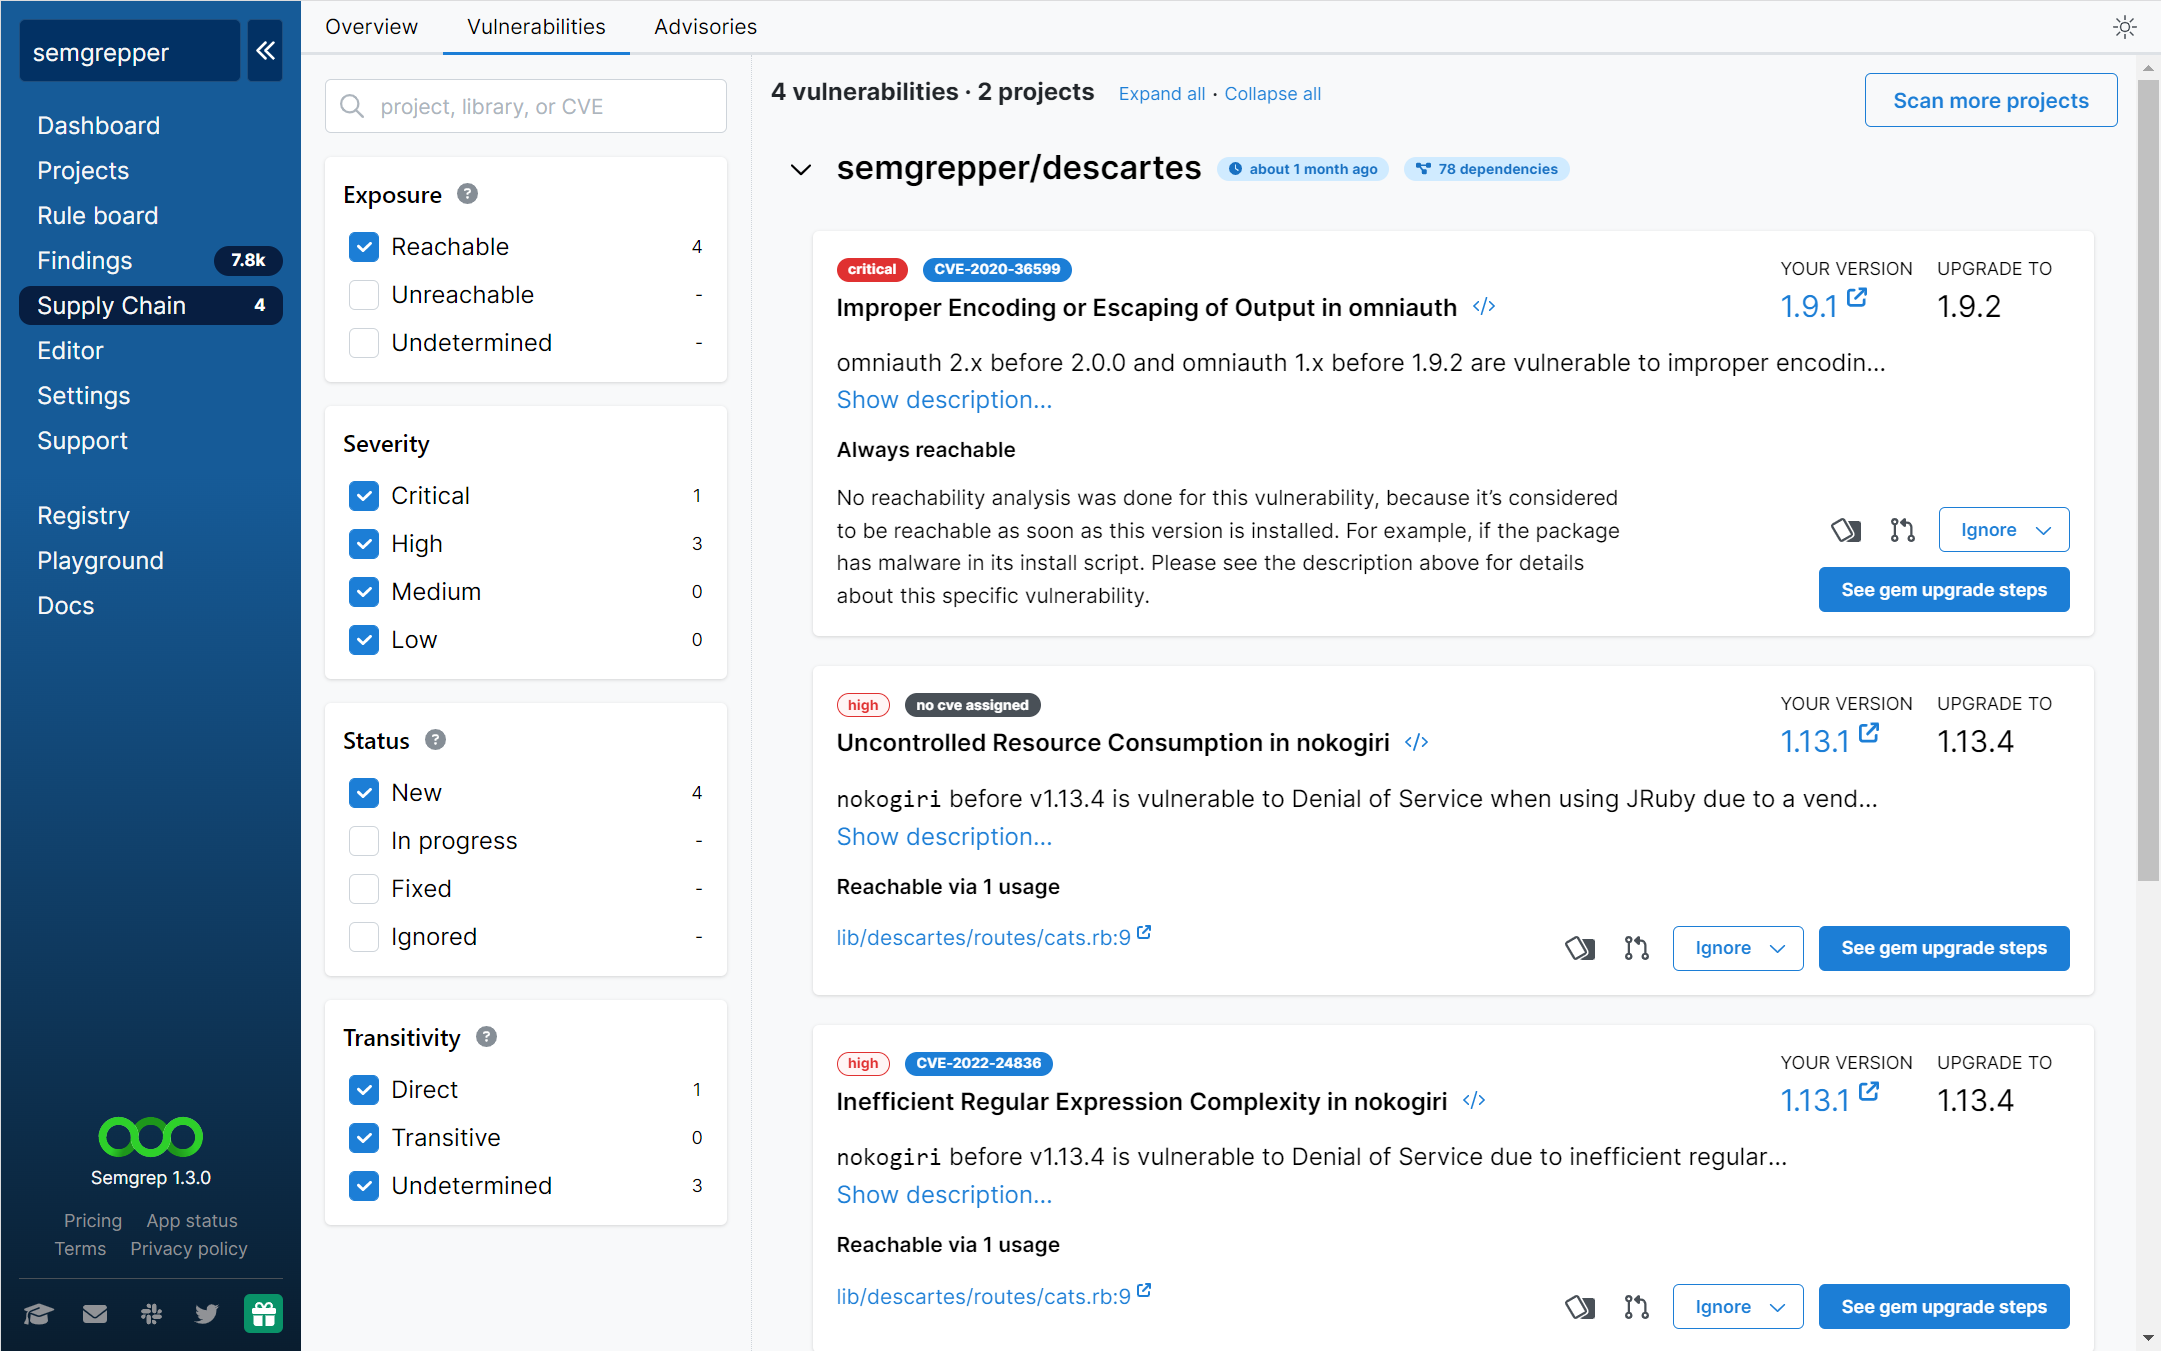
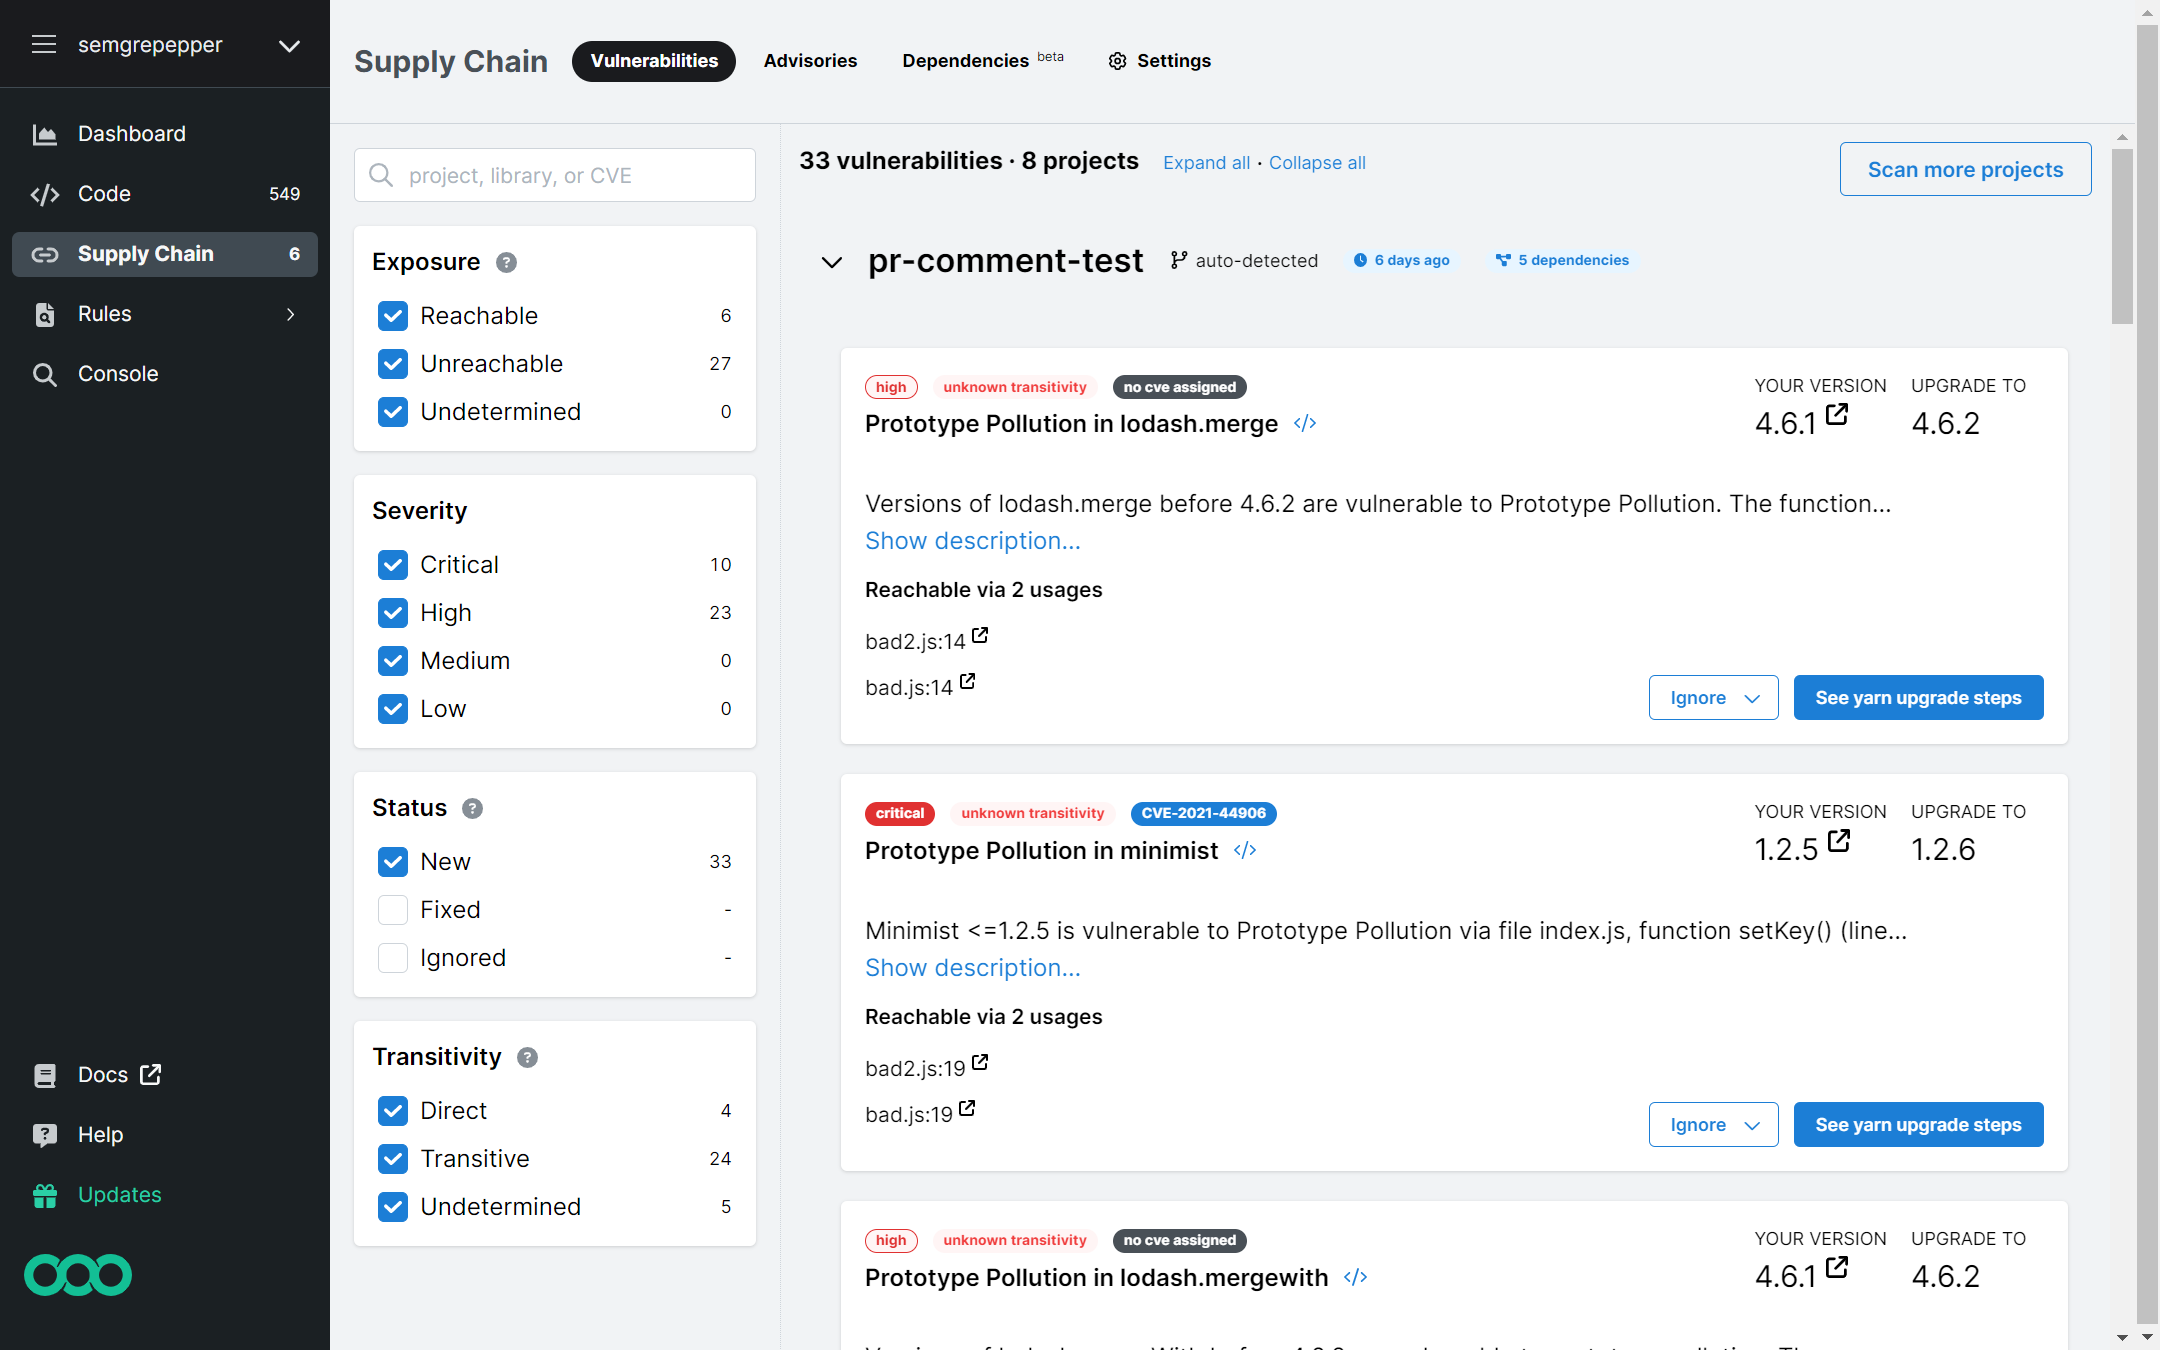
updated outdated triage information

diff --git a/docs/semgrep-supply-chain/triage-remediation.md b/docs/semgrep-supply-chain/triage-remediation.md
@@ -22,13 +22,9 @@ Object.entries(frontMatter).filter(
 
 # Triaging and remediating dependency findings
 
-<AdmonitionSscLicense />
-
 Perform triage and remediation on your open source dependencies through the **Supply chain** page. This page displays relevant scan data through three tabs:
 
 <dl>
-<dt>Overview</dt>
-    <dd>This tab displays the most recently discovered reachable vulnerabilities, advisories, and charts presenting historical data of vulnerabilities discovered in all repositories for which Semgrep Supply Chain is enabled. The badge is your total count of <strong>reachable vulnerabilities</strong>.</dd>
 <dt>Vulnerabilities</dt>
     <dd>This tab enables you to:
     <ul>
@@ -40,6 +36,8 @@ Perform triage and remediation on your open source dependencies through the **Su
 </dd>
 <dt>Advisories</dt>
 <dd>This tab displays the latest <strong>Common Vulnerabilities and Exposures (CVEs)</strong> that are covered by Semgrep Supply Chain rules. Use this tab to see the CVEs that Semgrep Supply Chain can detect.</dd>
+<dt>Dependencies</dt>
+<dd>This tab displays information about all of your dependencies across all onboarded repositories.</dd>
 </dl>
 
 ![Semgrep Supply Chain Vulnerabilities page](/img/sc-vulnerabilities.png)
@@ -51,11 +49,9 @@ _Figure 1_. Semgrep Supply Chain Vulnerabilities page.
 At least one repository that scans for dependencies through Semgrep Supply Chain. See [Getting started with Semgrep Supply Chain](/semgrep-supply-chain/getting-started).
 :::
 
-To view the latest findings of Semgrep Supply Chain:
+To view the latest findings of Semgrep Supply Chain, click Supply Chain.
 
-1. The latest findings are visible in **Supply Chain > Overview**. Clicking **Vulnerabilities** displays all findings for triage.
-
-Findings are grouped by **vulnerability**. A specific finding in the code is called a **usage**. Usages are grouped under their respective vulnerabilities. Vulnerability entries are sorted as cards from newest to oldest then by severity from critical to low.
+Findings are displayed under their respective repositories. Findings are grouped by **vulnerability**. A specific finding in the code is called a **usage**. Vulnerability entries are sorted as cards from newest to oldest then by severity from critical to low.
 
 <div class="bordered">
 
@@ -65,10 +61,10 @@ Findings are grouped by **vulnerability**. A specific finding in the code is cal
 
 _Figure 2_. A single vulnerability entry in Semgrep Supply Chain.
 
-Semgrep Supply Chain assists in your organization's threat assessment and triage through this page. Within the **Vulnerabilities** tab, you can determine reachable, true positives and the necessary effort to fix or resolve findings. After assessment, Semgrep Supply Chain assists users to decide between two triage actions:
+Within the **Vulnerabilities** tab, you can determine reachable, true positives and the necessary effort to fix or resolve findings. After assessment, Semgrep Supply Chain assists users to decide between two triage actions:
 
 * **Ignore the vulnerabilities. **Vulnerabilities that are **ignored** are false positives, acceptable risks, or deprioritized findings due to some factor, such as time.
-* **Remediate or resolve the vulnerability.** These vulnerabilities are true positives that are prioritized due to factors such as reachability and severity. Possible remediation solutions include updating the dependency or removing the dependency and refactoring the code.
+* **Remediate or resolve the vulnerability.** These vulnerabilities are true positives that are prioritized due to factors such as reachability and severity.
 
 To assess your findings, Semgrep Supply Chain provides the following methods:
 
@@ -151,12 +147,6 @@ The following **status filters** are provided:
    </td>
   </tr>
   <tr>
-   <td>In progress 
-   </td>
-   <td>Vulnerabilities with an attached Jira issue tracker or pull or merge request link.
-   </td>
-  </tr>
-  <tr>
    <td>Fixed
    </td>
    <td>Vulnerabilities that are no longer detected after a scan. This typically means that the dependency containing the vulnerability has been updated. Semgrep Supply Chain automatically checks if the dependency has been updated and sets the vulnerability's status as <strong>Fixed</strong>.
@@ -190,15 +180,6 @@ Semgrep Supply Chain provides a snippet you can copy to update the dependency. C
 
 Another method to remediate vulnerabilities is to remove the dependency entirely and refactor code. Upon merging any dependency removals, Semgrep Supply Chain scans the PR or MR, detects the changes in your lockfile, and updates the status to **Fixed**.
 
-### Tracking the remediation process
-
-Semgrep Supply Chain enables you to track the progress of your remediation by providing fields for the following:
-
-* **Jira issue tracker**. This is the **card icon** seen in the vulnerability's entry.
-* **Pull or merge request (PR or MR) link**. This is the **merge icon** seen in the vulnerability's entry.
-
-Copy the PR or MR link or Jira issue link to the corresponding field. This changes the vulnerability's status to **In progress**.
-
 ## Ignoring vulnerabilities
 
 To ignore a vulnerability:
@@ -206,20 +187,6 @@ To ignore a vulnerability:
 1. **Optional:** Filter vulnerabilities to apply criteria for a group of findings to ignore.
 2. Click on the vulnerability's **Ignore **button. A drop-down menu appears.
 3. Click the reason for ignoring. 
-
-## Additional data points
-
-### Viewing historical scan data
-
-The **Overview** tab displays two charts to assist you in understanding historical scan data:
-
-<dl>
-<dt>Inbox size over time</dt>
-<dd>This is the number of <strong>reachable vulnerabilities</strong> across all repositories that run Semgrep Supply Chain scans. The Y-axis goes down as triage actions are undertaken.</dd>
-<dt>New findings over time</dt>
-<dd>This is the number of <strong>reachable and unreachable vulnerabilities</strong> over time across all repositories that run Semgrep Supply Chain scans. The chart generates a new bar every time a scan runs.</dd>
-</dl>
-
 
 ### Viewing the latest advisories
 

diff --git a/docs/semgrep-supply-chain/getting-started.md b/docs/semgrep-supply-chain/getting-started.md
@@ -43,8 +43,6 @@ Semgrep Supply Chain **supports monorepositories (monorepos)** by treating each 
 
 ## Scanning with Semgrep Supply Chain through Semgrep Cloud Platform
 
-<AdmonitionSscLicense />
-
 Semgrep Supply Chain is **automatically enabled** for all repositories that you have onboarded or added to Semgrep Cloud Platform for scanning. If you have not onboarded any repositories for scanning, follow the steps in [Adding a repository](/semgrep-code/getting-started/#adding-or-onboarding-a-new-project-repository) to add a repository for scanning.
 
 When the scan finishes, Semgrep Cloud Platform displays an overview of findings in the **Supply Chain** page for further triage and remediation. See [Triaging and remediating dependency findings](/semgrep-supply-chain/triage-and-remediation).
